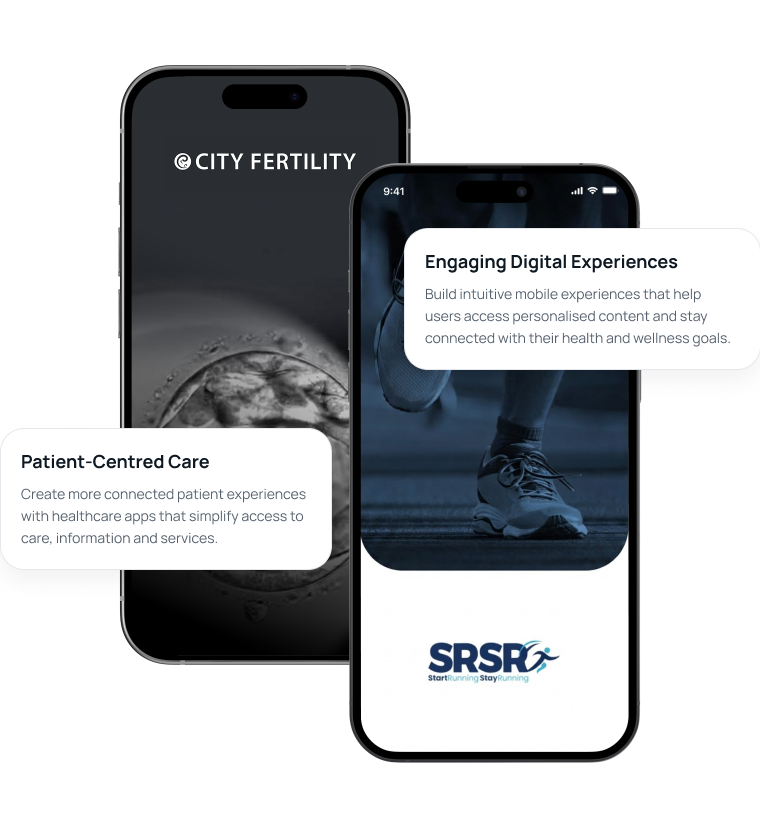
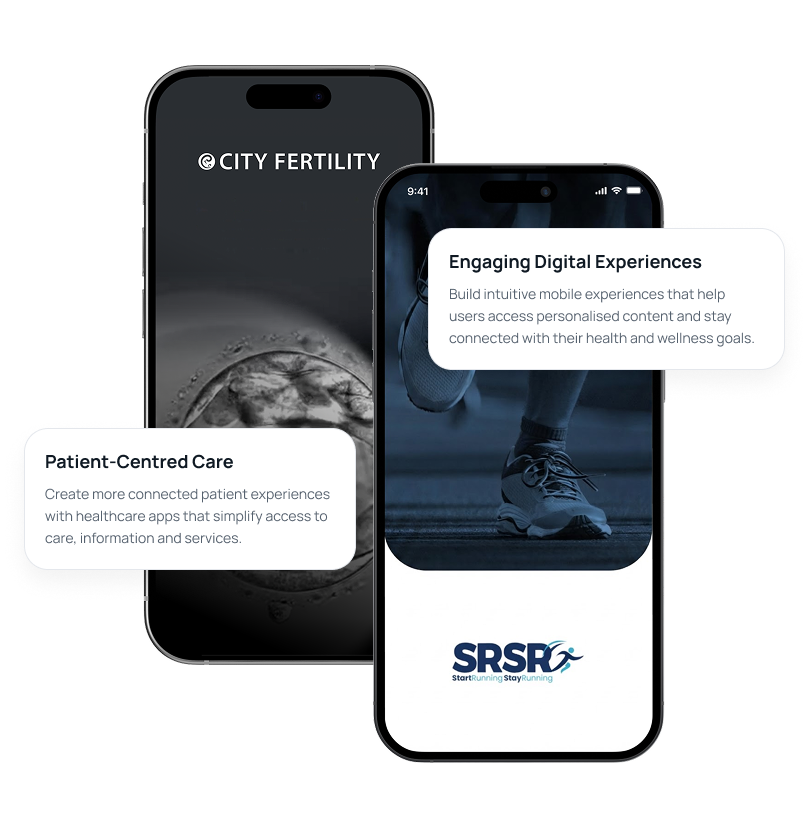
add bg behind the img

diff --git a/assets/css/devops.css b/assets/css/devops.css
@@ -636,7 +636,8 @@ content:"";position:absolute;top:0;left:0;bottom:0;width:calc(100% + 2px);height
 	.healthcare-banner .healthcare-right-img img{width:100%;height:100%;}
 	.custom-solutions-sec{padding:80px 0;background:#fff;}
 	.custom-solutions-sec .custom-solutions-main{margin-top:36px;padding-top:36px;border-top:1px solid #E4E7EC;}
-	.custom-solutions-sec .cs-phones{position:relative;width:100%;height:100%;}
+	.custom-solutions-sec .cs-phones{position:relative;width:100%;height:100%; isolation: isolate;}
+    .custom-solutions-sec .cs-phones:after {content: ""; position: absolute; inset: 0; z-index: -1; width: 60%; height: 60%; border-radius: 50%; background-color: #F05D27; margin: auto; filter: blur(140px); opacity: 0.7;}
 	.custom-solutions-sec .cs-glow{position:absolute;top:50%;left:50%;width:800px;height:800px;transform:translate(-50%,-45%);background:radial-gradient(circle,rgba(242,104,65,0.28) 0%,rgba(242,104,65,0.12) 45%,rgba(242,104,65,0) 70%);border-radius:50%;z-index:0;}
 	.custom-solutions-sec .cs-phone{position:absolute;background:#0B0B0D;border:3px solid #D5D7DB;border-radius:30px;padding:6px;box-shadow:0 20px 40px rgba(0,0,0,0.18);}
 	.custom-solutions-sec .cs-services{display:grid;grid-template-columns:repeat(2,1fr);column-gap:32px;align-items:start;}
@@ -678,6 +679,7 @@ content:"";position:absolute;top:0;left:0;bottom:0;width:calc(100% + 2px);height
 	.healthcare-ai .hl-benefits-title{padding-bottom:100px;}
 	.healthcare-ai .hl-benefits-item{border-top:1px solid #DDD8CE;padding-top:24px;}
 	.custom-solutions-sec .cs-services-col li:nth-child(n):last-child{border-bottom: 0}
+    .healthcare-ai .hl-ai-img img {aspect-ratio: 780/425;}
 
 	/*Faqs bg white css add start*/
 	.faq-bg-white {background: #fff;}
@@ -731,6 +733,8 @@ content:"";position:absolute;top:0;left:0;bottom:0;width:calc(100% + 2px);height
 		.four-situations .tech-stack-row .ts-tab-content{width:100%;padding:30px 0 0 0;}
 	}
 	@media (max-width:991px){
+        .hl-why-appgurus .ai-specialist-left{padding-right: 0;}
+        .custom-solutions-sec .cs-phones:after{opacity: 0.8; width: 50%; height: 50%;}
 		.custom-solutions-sec{padding:60px 0;}
 		.custom-solutions-main{margin-top:30px;padding-top:30px;}
 		.cs-phones{max-width:440px;height:480px;}

diff --git a/healthcare.html b/healthcare.html
@@ -1265,7 +1265,8 @@
                         </div>
                     </div>
                     <div class="hl-cta-banner-img">
-                        <img src="assets/images/healthcare/hl-cta-banner-img.webp" alt="image">
+                        <img src="assets/images/healthcare/hl-cta-banner-img.webp" alt="image" class="desktop-img d-md-block d-none">
+                        <!-- <img src="assets/images/healthcare/hl-cta-banner-img.webp" alt="image" class="mobile-img d-md-none d-block"> -->
                     </div>
                 </div>
             </div>
